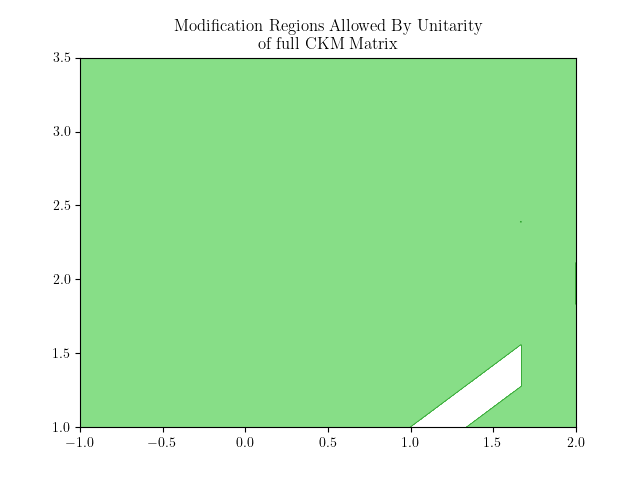
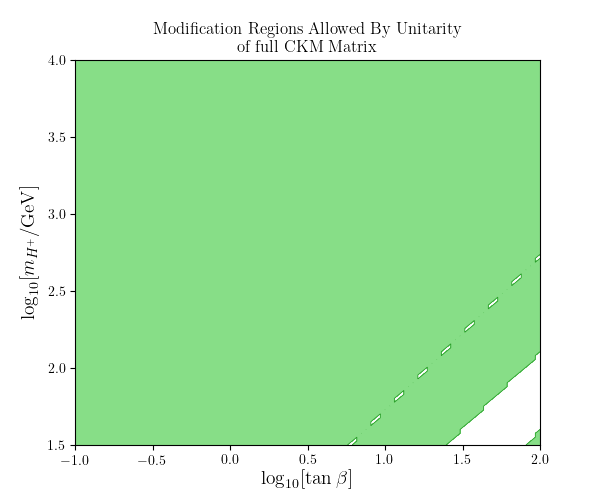
tweaks

diff --git a/ckm_tests/heatmaps/rh_range.py b/ckm_tests/heatmaps/rh_range.py
@@ -82,7 +82,7 @@ def vij_mult(args,ths):
     #array_vs[j,i] = np.average(mod)
     #array_es[j,i] = np.average(mode)
 
-steps = 120
+steps = 100
 
 tanb,mH = np.linspace(-1,2,steps), np.linspace(1.5,4,steps)
 t, h = np.meshgrid(tanb,mH)
@@ -174,19 +174,19 @@ pool4.join()
 levs = (0.99,)
 dat = {'x': t, 'y': h, 'z': units, 'levels': levs}
 
-fig = plt.figure()
+fig = plt.figure(figsize=(6,5))
 fpl.contour(**dat,col=2)
 plt.title("Modification Regions Allowed By Unitarity \n of full CKM Matrix")
 plt.xlabel(r'$\log_{10}[\tan\beta]$')
 plt.ylabel(r'$\log_{10}[m_{H^+}/\text{GeV}]$')
-plt.savefig("ckm_full_mat6.png")
+plt.savefig("ckm_full_mat7.png")
 #plt.show()
 
 #fig = plt.figure()
 #s = fig.add_subplot(1,1,1,xlabel=r"$\log_{10}[\tan\beta]$",ylabel=r"$\log_{10}[m_{H^+}/\text{GeV}]$")
 #im = s.imshow(-1*units,extent=(tanb[0],tanb[-1],mH[0],mH[-1]),origin='lower',cmap='gray')
 #plt.title("Modification Regions Allowed By Unitarity \n of full CKM Matrix")
-#plt.savefig("ckm_full_mat5.png")
+#plt.savefig("ckm_full_mat8.png")
 
 print("--- %s seconds ---" % (time.time() - start_time))
 print(datetime.datetime.now())

diff --git a/ckm_tests/heatmaps/extra.py b/ckm_tests/heatmaps/extra.py
@@ -242,5 +242,5 @@ def testing(args,ijs):
                 answer += 1
     result = 1
     if answer == 9:
-        result = 0
+        result = -1
     return result
